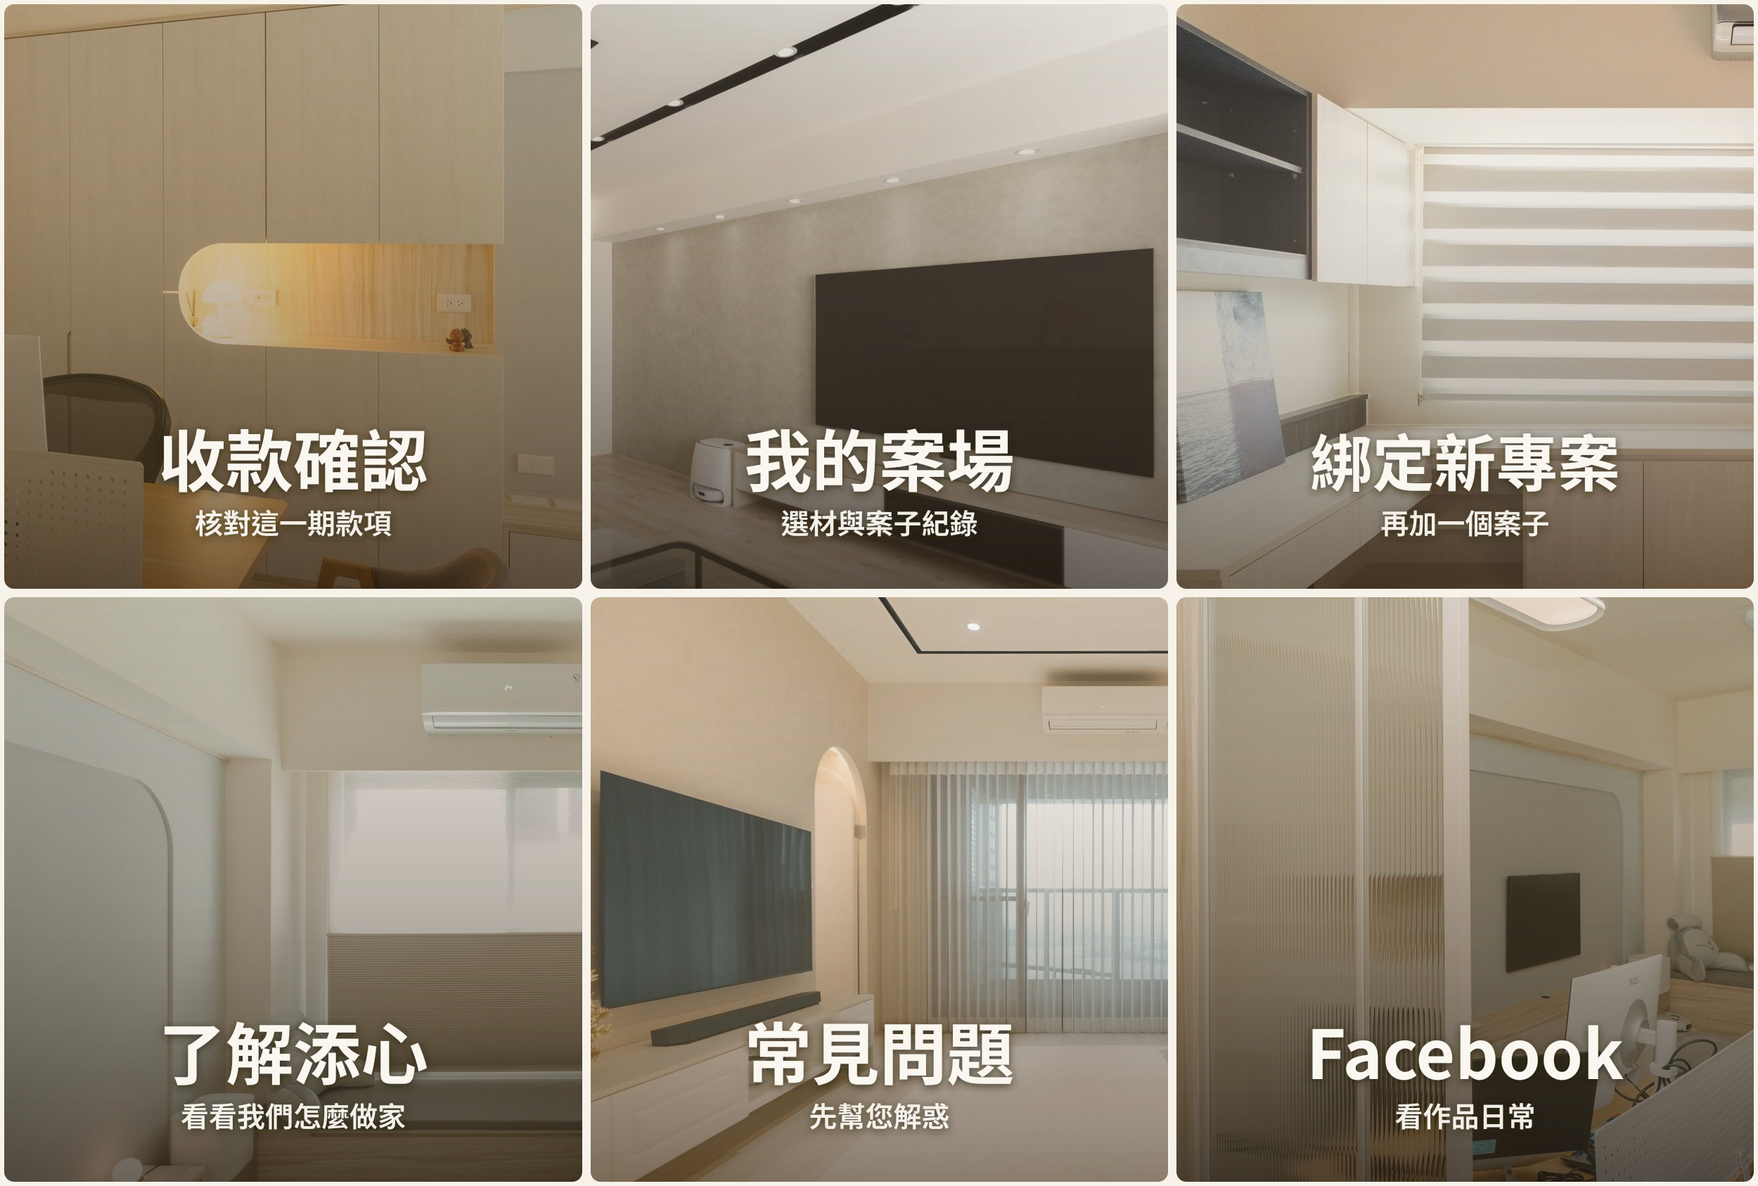
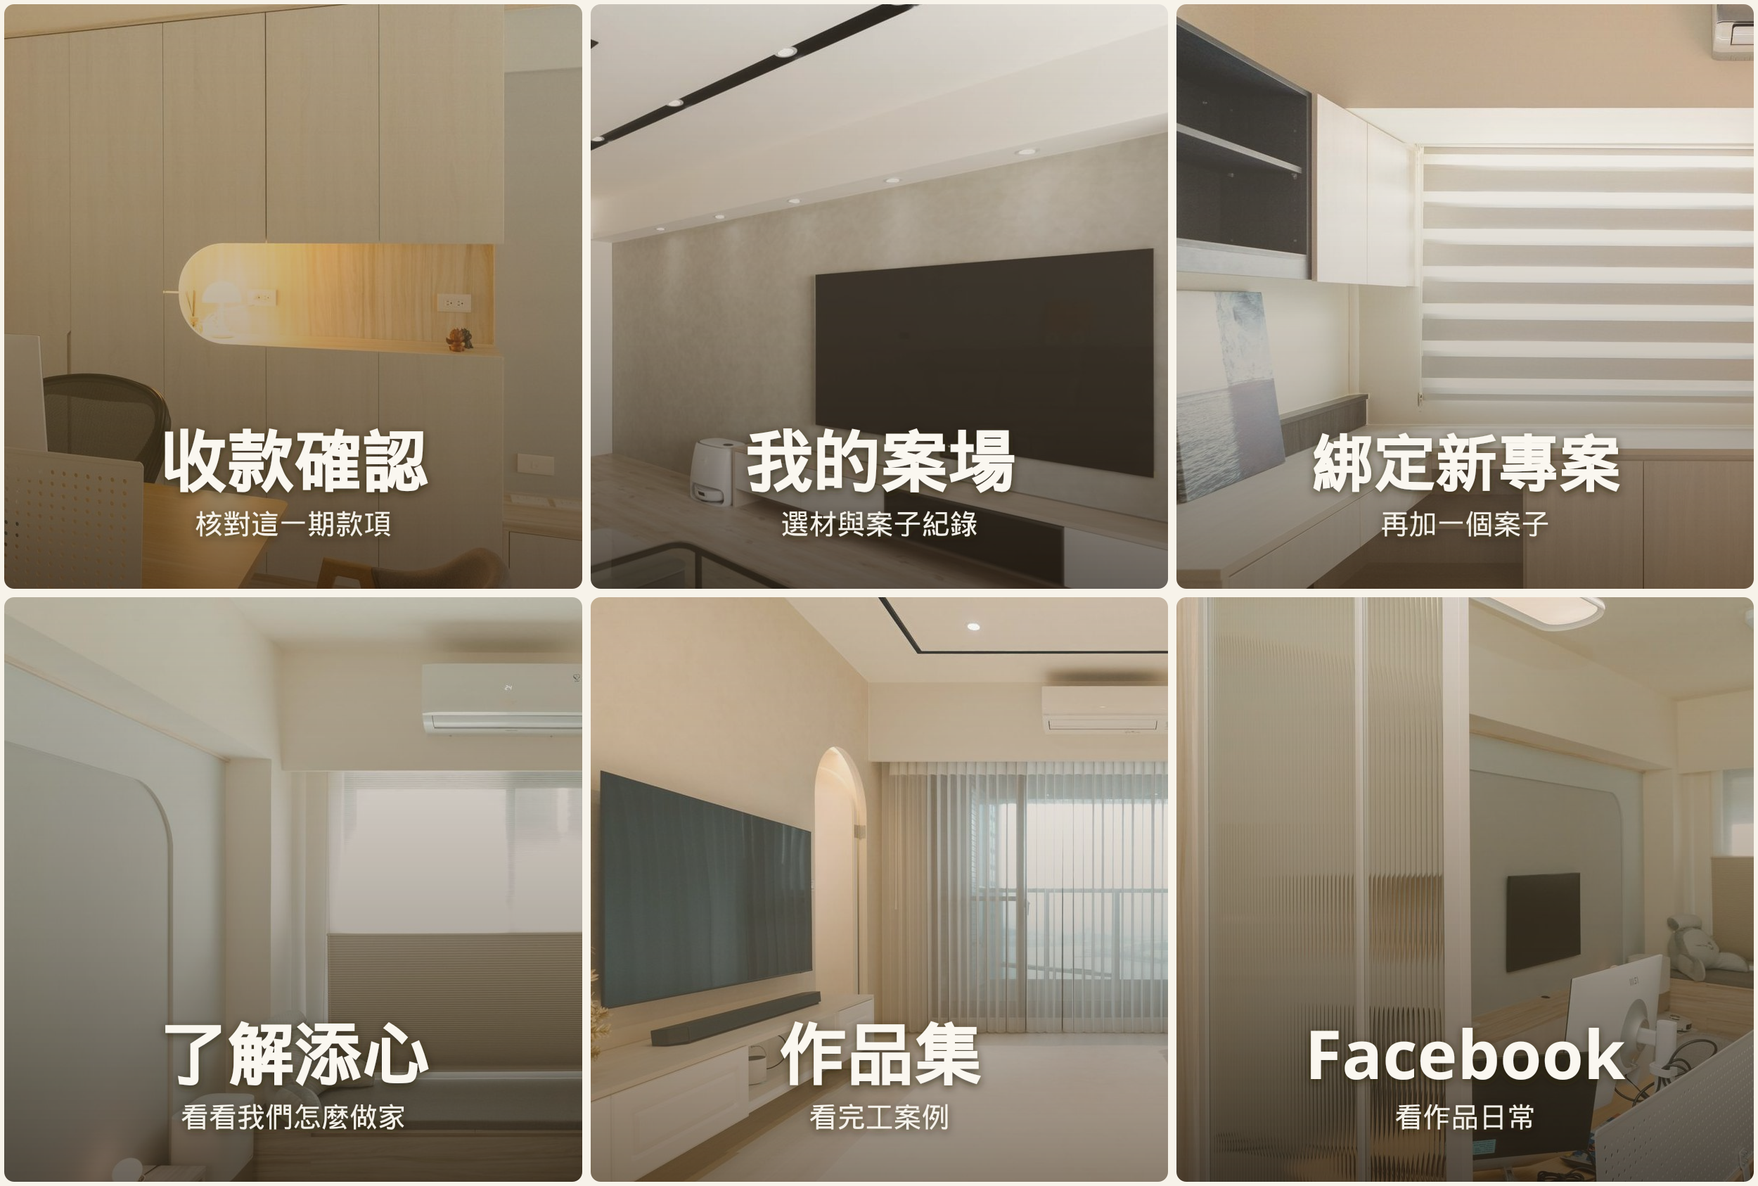
feat(richmenu): 常見問題改作品集並外開官網
未綁四格與會員六格的 FAQ 格改為「作品集」，連結 tanxin.space/portfolio；
重產奶油金圖稿並更新預覽頁與 SPEC。

diff --git a/modules/info/customer-richmenu-preview.html b/modules/info/customer-richmenu-preview.html
@@ -277,7 +277,7 @@
     <p class="lead">在瀏覽器查看選單版面與各格連結；不必用手機 LINE 實測。下方按鈕會開啟與客人相同的網頁（員工預覽模式）。</p>
     <div class="notice">
       <strong>說明：</strong>本頁僅預覽版面與連結。正式 LINE 聊天室下方的選單 <strong>尚未上線</strong>。
-      Facebook 那格掛上 LINE 後會<strong>跳出 LINE、用外部瀏覽器或粉專 App 開</strong>，不會卡在 LINE 裡。
+      「作品集」「Facebook」掛上 LINE 後會<strong>跳出 LINE、用外部瀏覽器開</strong>，不會卡在 LINE 裡。
     </div>
 
     <section class="compare-bar" aria-label="色系與底圖排列">
@@ -313,7 +313,7 @@
 
     <section>
       <h2>未綁定客戶｜四格（2×2）</h2>
-      <p class="hint">上排：申請綁定專案｜了解添心　／　下排：常見問題｜Facebook</p>
+      <p class="hint">上排：申請綁定專案｜了解添心　／　下排：作品集｜Facebook</p>
       <div class="richmenu guest" id="guestMenu">
         <div class="cell c-sand" data-key="bind">
           <span class="icon" aria-hidden="true"><svg viewBox="0 0 24 24" fill="none" stroke="currentColor" stroke-width="1.8" stroke-linecap="round"><rect x="3" y="8" width="10" height="10" rx="2"/><rect x="11" y="4" width="10" height="10" rx="2"/></svg></span>
@@ -327,10 +327,10 @@
           <span class="sub">看看我們怎麼做家</span>
           <a class="preview-btn" href="#" target="_blank" rel="noopener">打開客人畫面</a>
         </div>
-        <div class="cell c-linen" data-key="faq">
-          <span class="icon" aria-hidden="true"><svg viewBox="0 0 24 24" fill="none" stroke="currentColor" stroke-width="1.8" stroke-linecap="round"><path d="M6 7.5h12a2 2 0 0 1 2 2V15a2 2 0 0 1-2 2H10l-4 3v-3H6a2 2 0 0 1-2-2V9.5a2 2 0 0 1 2-2z"/><path d="M12 10v.5"/><circle cx="12" cy="13.2" r="0.6" fill="currentColor" stroke="none"/></svg></span>
-          <span class="title">常見問題</span>
-          <span class="sub">先幫您解惑</span>
+        <div class="cell c-linen" data-key="portfolio">
+          <span class="icon" aria-hidden="true"><svg viewBox="0 0 24 24" fill="none" stroke="currentColor" stroke-width="1.8" stroke-linecap="round" stroke-linejoin="round"><rect x="3.5" y="5" width="17" height="14" rx="1.5"/><path d="M3.5 15.5l4.2-3.2 3.1 2.4 4-4.4 5.2 5.2"/><circle cx="9" cy="9.2" r="1.2"/></svg></span>
+          <span class="title">作品集</span>
+          <span class="sub">看完工案例（跳出 LINE）</span>
           <a class="preview-btn" href="#" target="_blank" rel="noopener">打開客人畫面</a>
         </div>
         <div class="cell c-stone" data-key="fb">
@@ -344,7 +344,7 @@
 
     <section>
       <h2>已綁定會員｜六格（3×2）</h2>
-      <p class="hint">上排：收款確認｜我的案場｜綁定新專案　／　下排：了解添心｜常見問題｜Facebook</p>
+      <p class="hint">上排：收款確認｜我的案場｜綁定新專案　／　下排：了解添心｜作品集｜Facebook</p>
       <div class="richmenu member" id="memberMenu">
         <div class="cell c-sand" data-key="receipt">
           <span class="icon" aria-hidden="true"><svg viewBox="0 0 24 24" fill="none" stroke="currentColor" stroke-width="1.8" stroke-linecap="round"><path d="M7 5h10v14l-2-1.2-2 1.2-2-1.2-2 1.2-2-1.2V5z"/><path d="M9 9h6M9 12h6M9 15h4"/></svg></span>
@@ -370,10 +370,10 @@
           <span class="sub">看看我們怎麼做家</span>
           <a class="preview-btn" href="#" target="_blank" rel="noopener">打開客人畫面</a>
         </div>
-        <div class="cell c-linen" data-key="faq">
-          <span class="icon" aria-hidden="true"><svg viewBox="0 0 24 24" fill="none" stroke="currentColor" stroke-width="1.8" stroke-linecap="round"><path d="M6 7.5h12a2 2 0 0 1 2 2V15a2 2 0 0 1-2 2H10l-4 3v-3H6a2 2 0 0 1-2-2V9.5a2 2 0 0 1 2-2z"/></svg></span>
-          <span class="title">常見問題</span>
-          <span class="sub">先幫您解惑</span>
+        <div class="cell c-linen" data-key="portfolio">
+          <span class="icon" aria-hidden="true"><svg viewBox="0 0 24 24" fill="none" stroke="currentColor" stroke-width="1.8" stroke-linecap="round" stroke-linejoin="round"><rect x="3.5" y="5" width="17" height="14" rx="1.5"/><path d="M3.5 15.5l4.2-3.2 3.1 2.4 4-4.4 5.2 5.2"/><circle cx="9" cy="9.2" r="1.2"/></svg></span>
+          <span class="title">作品集</span>
+          <span class="sub">看完工案例（跳出 LINE）</span>
           <a class="preview-btn" href="#" target="_blank" rel="noopener">打開客人畫面</a>
         </div>
         <div class="cell c-stone" data-key="fb">
@@ -400,7 +400,7 @@
         portal: '../accounting/customer-finance-portal.html',
         designer: '../projects/designer-material-selection.html',
         landing: 'LandingPage.html',
-        faq: 'FAQ.html',
+        portfolio: 'https://tanxin.space/portfolio/?openExternalBrowser=1',
         fb: 'https://www.facebook.com/TainanTanXin?openExternalBrowser=1'
       };
 
@@ -428,7 +428,7 @@
       var TARGETS = {
         bind: function () { return abs(PATH.landing) + '#bind-placeholder'; },
         landing: function () { return abs(PATH.landing); },
-        faq: function () { return abs(PATH.faq); },
+        portfolio: function () { return PATH.portfolio; },
         fb: function () { return PATH.fb; },
         receipt: function () { return portalPreview(''); },
         material: function () { return portalPreview('entity=material'); }

diff --git a/SPEC/未來開發事項.md b/SPEC/未來開發事項.md
@@ -46,7 +46,8 @@
 | 2026-08-13 | **客戶 Rich Menu 第 1 波**：奶油金＋現況圖稿上正式站；GAS 建立四格／六格；**只掛黃俊豪**測四格。尺寸改**全幅 2500×1686**（約佔一半聊天室）。不設官方預設選單。自動換單／自助申請仍未做。 |
 | 2026-08-02 | **§1 LINE 傳圖主路徑實作**：同步存廠商夾＋進快審清單＋五類人工分類＋請款帶附件進待付款；AI 背景建議仍未做；維持不停自動建請款 |
 | 2026-08-02 | **§1 LINE 傳圖效能拍板**：同步＝對廠商／缺夾自動建→存夾→立刻進快審；背景＝AI 建議分類（若做）；不做傳圖當下 OCR／自動建請款；回覆可靜默或「已收」；對不到才待認領、根目錄不見才報錯 |
-| 2026-07-28 | **客戶 Rich Menu 計劃修訂（總監拍板）**：**計劃已修訂、待實作**。未綁四格第4格＝**Facebook（外開，禁 LIFF）**；會員六格＝收款｜我的案場｜綁定新專案｜了解添心｜常見問題｜Facebook；**不掛**施工進度、**不掛**簽約核對。詳見計劃檔與 §4 差異註記 |
+| 2026-10-14 | **客戶 Rich Menu 文案／連結**：原「常見問題／FAQ」格改為 **作品集**，外開 `https://tanxin.space/portfolio/`（未綁四格＋會員六格）。程式與圖稿已改；**LINE 側需重建選單＋換圖**才生效（見 LOG）。 |
+| 2026-07-28 | **客戶 Rich Menu 計劃修訂（總監拍板）**：**計劃已修訂、待實作**。未綁四格第4格＝**Facebook（外開，禁 LIFF）**；會員六格＝收款｜我的案場｜綁定新專案｜了解添心｜常見問題｜Facebook；**不掛**施工進度、**不掛**簽約核對。詳見計劃檔與 §4 差異註記（2026-10-14 常見問題→作品集） |
 | 2026-07-28 | **主控台統合**：第二層大類殼方向入檔（專案事務／會計／假勤／其他工具；審核不進專案事務）；**暫不實作**。選材改「進行中／Phase1 體驗修正」 |
 | 2026-07-23 | **總監同意特助定案**：回覆「A」＝**不改任何一條**；定案正式生效（見 §2.1／§4） |
 | 2026-07-23 | **特助定案（已定・總監同意）**：①確認後「提出異議」＝**可再開洽談**（已確定入帳後客人不可自助異議）；②會員六格定稿＝收款／簽約追加減核對／我的案場／施工進度／綁定新專案／了解添心；③自助驗證＝**甲＋一律待審**；④掃碼乙＝仍須 ≥4 審核；⑤未綁定預設＝**四格**；⑥Phase 1 最小可上線範圍寫死（§4.7／§4.8） |
@@ -239,8 +240,8 @@ flowchart TD
 
 > **2026-07-28 差異註記（總監拍板｜計劃已修訂、待實作）**  
 > **選單文案／格數定稿**以 [`客戶RichMenu_計劃.md`](c:/Users/a9999/.cursor/plans/客戶RichMenu_計劃.md) 為準，**覆蓋**下方 §4.3.1／§4.4 舊表：  
-> - **未綁四格**：申請綁定專案｜了解添心｜常見問題｜**Facebook（外開 FB App／外部 URI；禁止 LIFF 內開）**（不再用「聯絡客服」）  
-> - **會員六格**：收款確認｜我的案場（選材為主）｜綁定新專案｜了解添心｜常見問題｜Facebook（同上外開）  
+> - **未綁四格**：申請綁定專案｜了解添心｜**作品集**（外開官網）｜**Facebook（外開 FB App／外部 URI；禁止 LIFF 內開）**（不再用「聯絡客服」；原「常見問題」已改作品集）  
+> - **會員六格**：收款確認｜我的案場（選材為主）｜綁定新專案｜了解添心｜**作品集**｜Facebook（同上外開）  
 > - **不掛**：施工進度（目前不開放客戶看）、簽約／追加減核對（未完成、不占位硬湊）  
 > - **硬規則**：會員功能不少於未綁；審核通過／代綁→六格；待審不換；全解除→四格  
 > 綁定審核／驗證甲＋待審／權限 ≥4／方案 C 等**流程拍板仍有效**；僅**選單格子**依 7/28 修訂。
@@ -322,7 +323,7 @@ flowchart TD
 |----|------|------|
 | 1 | **申請綁定專案** | 客人申請綁定頁（§4.5；P0 可先內部代綁） |
 | 2 | **了解添心** | 落地頁（外開；非硬塞 FB） |
-| 3 | **常見問題** | 既有 FAQ／官網常見問答頁 |
+| 3 | **作品集** | 外開官網作品集 `https://tanxin.space/portfolio/`（`openExternalBrowser=1`；原「常見問題」） |
 | 4 | **Facebook** | **外開 FB App／系統外部瀏覽器**；**禁止 LIFF 內開**（舊「聯絡客服」已廢） |
 
 **現況差距（第 1 波）**
@@ -335,7 +336,7 @@ flowchart TD
 
 #### 4.4 裝修案會員 Rich Menu（六格文案｜**2026-07-28 定稿｜2026-08-13 第 1 波已建圖、尚未對客人自動掛**）
 
-> **理由**：真實功能先掛（收款、案場／選材）；未綁有的了解添心／FAQ／FB 會員都要留；施工進度目前不開放客戶看、簽約核對未完成 → **不掛格、不占位**。  
+> **理由**：真實功能先掛（收款、案場／選材）；未綁有的了解添心／作品集／FB 會員都要留；施工進度目前不開放客戶看、簽約核對未完成 → **不掛格、不占位**。  
 > **完整計劃**：[客戶RichMenu_計劃.md](c:/Users/a9999/.cursor/plans/客戶RichMenu_計劃.md)
 
 | 格 | 文案 | 導向 |
@@ -344,7 +345,7 @@ flowchart TD
 | 2 | **我的案場** | 現有案場頁；**以選材表為主**（兩卡可進選材；收款也可從第 1 格進） |
 | 3 | **綁定新專案** | 與「申請綁定專案」同一申請畫面 |
 | 4 | **了解添心** | 落地頁（外開） |
-| 5 | **常見問題** | FAQ |
+| 5 | **作品集** | 外開官網 `https://tanxin.space/portfolio/`（原「常見問題」） |
 | 6 | **Facebook** | **外開 FB App／外部 URI**；**禁止 LIFF 內嵌** |
 
 > **不做進選單**：施工進度（客戶暫不開放）、簽約／追加減核對（未完成、不占位）。核對能力仍見 §2.1，日後另排，**不**為湊六格硬塞。
@@ -423,7 +424,7 @@ flowchart TD
 3. 獨立「客戶綁定審核」小頁（方案 C）＋會計 HUB 一卡（≥4）  
 4. 審核核准／駁回 API；代綁／解鎖門檻改 **≥4**  
 5. **兩套 Rich Menu ID**：預設四格＋會員六格圖稿／熱區（**文案以 2026-07-28 計劃為準**）；通過才掛、全解除才卸  
-6. 會員六格真實導向：**收款確認／我的案場（選材為主）／了解添心／常見問題／Facebook（外開）**；**綁定新專案** P0 可先代綁；**不掛**施工進度、簽約核對  
+6. 會員六格真實導向：**收款確認／我的案場（選材為主）／了解添心／作品集（外開官網）／Facebook（外開）**；**綁定新專案** P0 可先代綁；**不掛**施工進度、簽約核對  
 7. 申請成功／待審中畫面文案（「已送出、等候審核」）
 
 **Phase 1 不做**
@@ -443,7 +444,7 @@ flowchart TD
 2. ~~誰有權審／代綁~~ → **已定（總監同意）：≥4**  
 3. ~~方案乙掃碼後是否仍要審~~ → **已定（總監同意）：仍須 ≥4 審核**（掃碼只當預填／標註來源；急需用代綁）  
 4. ~~會員三格待補文案~~ → **已由 2026-07-28 覆蓋**：見 §4.4／客戶RichMenu_計劃（不再掛簽約核對／施工進度）  
-5. ~~未綁定預設選單~~ → **2026-07-28**：四格＝申請綁定專案｜了解添心｜常見問題｜**Facebook**（見 §4.3.1）  
+5. ~~未綁定預設選單~~ → **2026-07-28／2026-10-14**：四格＝申請綁定專案｜了解添心｜**作品集**｜**Facebook**（見 §4.3.1；原常見問題改作品集）  
 6. ~~追加減核對範圍／整單簽 vs 逐項勾~~ → **已定（總監同意）**：見 §2.1  
 7. ~~確認後提出異議~~ → **已定（總監同意）：客戶已確認可異議重開；已確定入帳後不可自助異議**（見 §2.1）  
 8. ~~Phase 1 範圍~~ → **已定（總監同意）**：見 §4.7  
@@ -531,7 +532,7 @@ flowchart TD
 | 多案綁定 | 一 LINE 可綁多案，下拉切案（**以 B5 實作為準**） |
 | 綁定主路徑 | **客人自助申請**（可重複綁多案）→ **待審核** → **通過才有效**；驗證＝**甲（案號＋姓名，可選末四碼）＋一律待審**；掃碼乙＝仍須 ≥4 審；內部代綁＝**後備**（見 **§4**）；審核頁＝**獨立小頁方案 C**、權限 **≥4**（§4.9 已拍板） |
 | 主入口（案場內容） | 單一 LIFF「**我的案場**」殼層仍成立（首屏摘要＋卡片） |
-| 會員 Rich Menu | **審核通過後**改掛六格（**2026-07-28 定稿**：收款確認｜我的案場｜綁定新專案｜了解添心｜常見問題｜Facebook）；**不掛**施工進度／簽約核對；**待審／駁回不換**。2026-08-13 第 1 波：圖已建、只掛測試 UID。 |
+| 會員 Rich Menu | **審核通過後**改掛六格（**2026-10-14**：收款確認｜我的案場｜綁定新專案｜了解添心｜作品集｜Facebook）；**不掛**施工進度／簽約核對；**待審／駁回不換**。作品集外開 `tanxin.space/portfolio/`。 |
 | §13 對照 | [13_客戶端唯讀施工進度規格書.md](./13_客戶端唯讀施工進度規格書.md) 之「一案綁定／僅內部綁」**已過時**；以 B5／§4／本 backlog 為準 → **§13 本體待修訂** |
 
 ### 客戶第一眼 IA（兩層導覽，非五 tab 橫排）

diff --git a/SPEC/專有名詞白話對照.md b/SPEC/專有名詞白話對照.md
@@ -27,12 +27,12 @@
 | **客人申請綁定頁** | 給屋主自己填案號、地址、業主姓名或手機末四碼的畫面。對上就生效；案場沒填業主資料時對不上，請設計師代綁。 |
 | **業主姓名／業主手機** | 案場資料上的屋主姓名與手機，**選填、不強制**。給設計師建檔、主控台查案、客人自助綁定核對用。**不出現在進場資訊，也不出現在 LINE 查案回覆**。 |
 | **客戶綁定審核頁** | 內部看「誰申請綁案還沒過」的佇列頁；可核准或駁回。**已拍板**：獨立小頁，從會計選單（HUB）一卡進入；審核權限 **≥4**。單案「客戶綁定」分頁只作代綁後備。 |
-| **裝修案會員專屬 Rich Menu** | 客人至少**審核通過**綁過一案之後，LINE 聊天室下方換成的會員大圖選單（六格：**收款確認｜我的案場｜綁定新專案｜了解添心｜常見問題｜Facebook**）。**不掛**施工進度、簽約／追加減核對。 |
+| **裝修案會員專屬 Rich Menu** | 客人至少**審核通過**綁過一案之後，LINE 聊天室下方換成的會員大圖選單（六格：**收款確認｜我的案場｜綁定新專案｜了解添心｜作品集｜Facebook**）。**不掛**施工進度、簽約／追加減核對。作品集外開官網 `tanxin.space/portfolio/`。 |
 | **簽約單／追加減核對** | 給客人看「簽約後變更單」（現場常當合約附件）並做品項核對驗收、問題改進、備註的專區；**不**放在收款確認頁。客人可見「洽談中」內容；須整單簽＋一鍵勾選確認後，再經公司落實才算確定項目。 |
 | **洽談中（追加減核對）** | 變更還在討論、尚未定案；客人可看明細，但畫面要標「尚未定案」，不能當成已報價定案。 |
 | **客戶已確認（追加減核對）** | 客人已整單簽名並一鍵勾選完成；系統已記下確認時間／簽名／勾選；等公司落實入帳。 |
 | **已確定／已核准入帳（追加減）** | 公司依客戶確認結果正式入系統；才計入有效合約（與「公司確認」同一語意）。 |
-| **預設 Rich Menu（未綁定）** | 剛加官方 LINE、還沒有任何「已通過」綁定時的下方選單（四格：**申請綁定專案｜了解添心｜常見問題｜Facebook**）。待審／已駁回仍算未綁定。Facebook **外開**，不在 LINE 內嵌頁開。 |
+| **預設 Rich Menu（未綁定）** | 剛加官方 LINE、還沒有任何「已通過」綁定時的下方選單（四格：**申請綁定專案｜了解添心｜作品集｜Facebook**）。待審／已駁回仍算未綁定。作品集／Facebook **外開**，不在 LINE 內嵌頁開。 |
 | **提出異議（追加減核對）** | 客人在「客戶已確認」後反悔、要求重談；按下去該單回到洽談中並留痕。公司已確定入帳後，客人不可自助異議。 |
 | **ClientPortalAccess（客人與案號對照表）** | 試算表裡紀錄「哪個 LINE 能看哪個案號」的分頁；可多案、可解除。現行狀態只有已通過／已解除；**需加**待審核／已駁回。 |
 | **待審核（綁定）** | 客人已送出綁案申請，內部還沒核准；此時不能看該案、也不換會員選單。 |

diff --git a/LOG/2026-10-14_LOG_客戶RichMenu_FAQ改作品集.md b/LOG/2026-10-14_LOG_客戶RichMenu_FAQ改作品集.md
@@ -1,0 +1,32 @@
+# 2026-10-14｜客戶 Rich Menu：常見問題 → 作品集
+
+## 決策
+
+未綁四格、會員六格原本的「常見問題／FAQ」格，改成 **作品集**，點了外開官網：
+
+`https://tanxin.space/portfolio/`（帶 `openExternalBrowser=1`，與 Facebook 同為跳出 LINE）
+
+## 改了什麼（本 repo）
+
+| 項目 | 說明 |
+|------|------|
+| 預覽頁 | `modules/info/customer-richmenu-preview.html` 文案與連結 |
+| 圖稿腳本 | `richmenu-preview/render-richmenus.mjs` 標題／副標 |
+| 正式站圖 | `modules/info/asset/richmenu/customer_*_richmenu_v1.jpg` 已重產 |
+| SPEC | `未來開發事項.md`、`專有名詞白話對照.md` 對齊 |
+
+後端熱區／URI：見 Backend_GAS `project-console/createCustomerRichMenus.js`（另 PR）。
+
+## LINE 側還要做什麼（未部署、需人工）
+
+1. **先把前端圖稿推到正式站**（Pages），確認 JPG 可開且 `?v=portfolio`。
+2. GAS 推送／部署 `createCustomerRichMenus.js` 後，執行 **`createCustomerRichMenus`**（會**新建**兩套選單、寫入新 ID）。  
+   - 只跑 `refreshCustomerRichMenuImages` **不夠**：那只換圖，**不會**改點擊網址。
+3. 有掛過舊選單的人（測試帳／已綁會員）要**重新掛**新 ID（`#測試選單 四格／六格` 或對應 link 函式）。
+4. `config_.js` 裡的預設選單 ID fallback 若仍寫舊 ID，部署後應一併更新為新 ID（或靠 Script Properties）。
+5. **不要**設官方預設選單（既有政策不變）。
+
+## 驗證（本環境）
+
+- 已重跑 `node render-richmenus.mjs`，JPG 複製到 `modules/info/asset/richmenu/`
+- 預覽頁 `data-key="portfolio"` → `tanxin.space/portfolio/`
